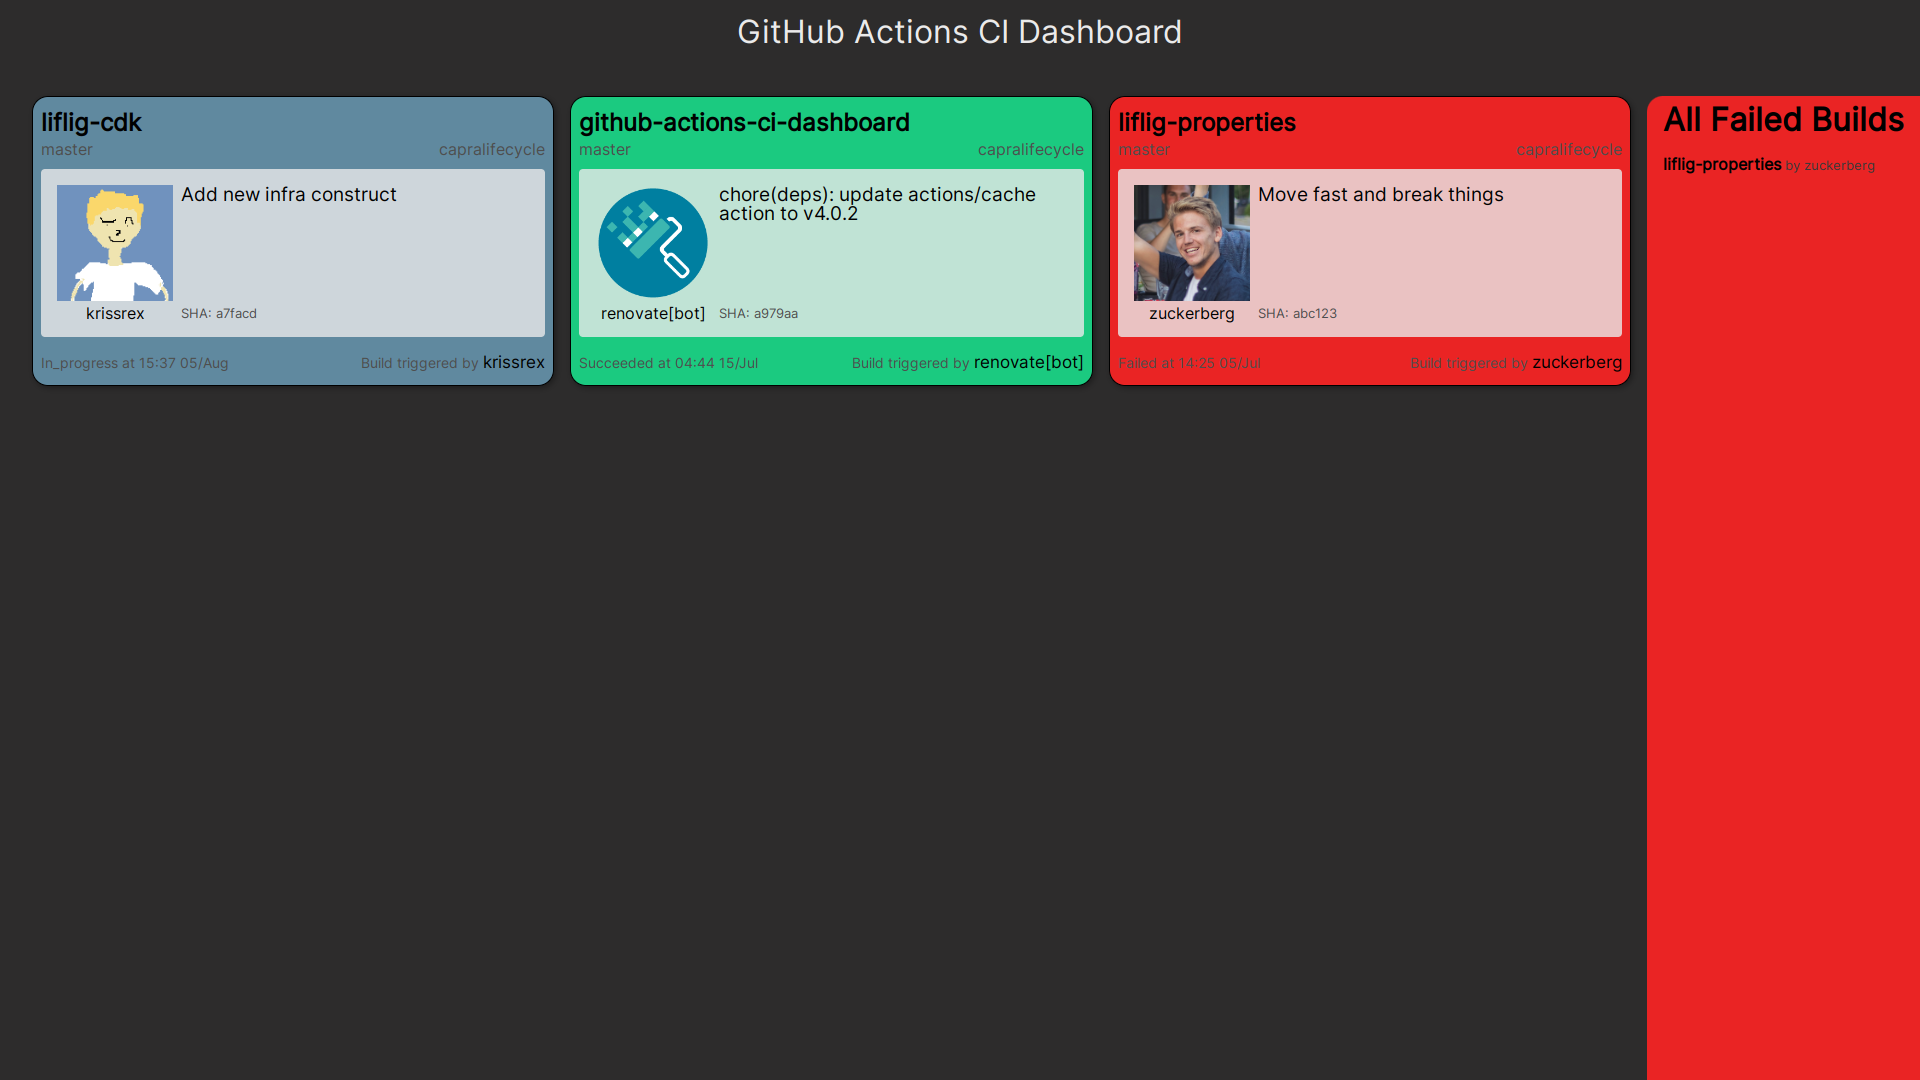
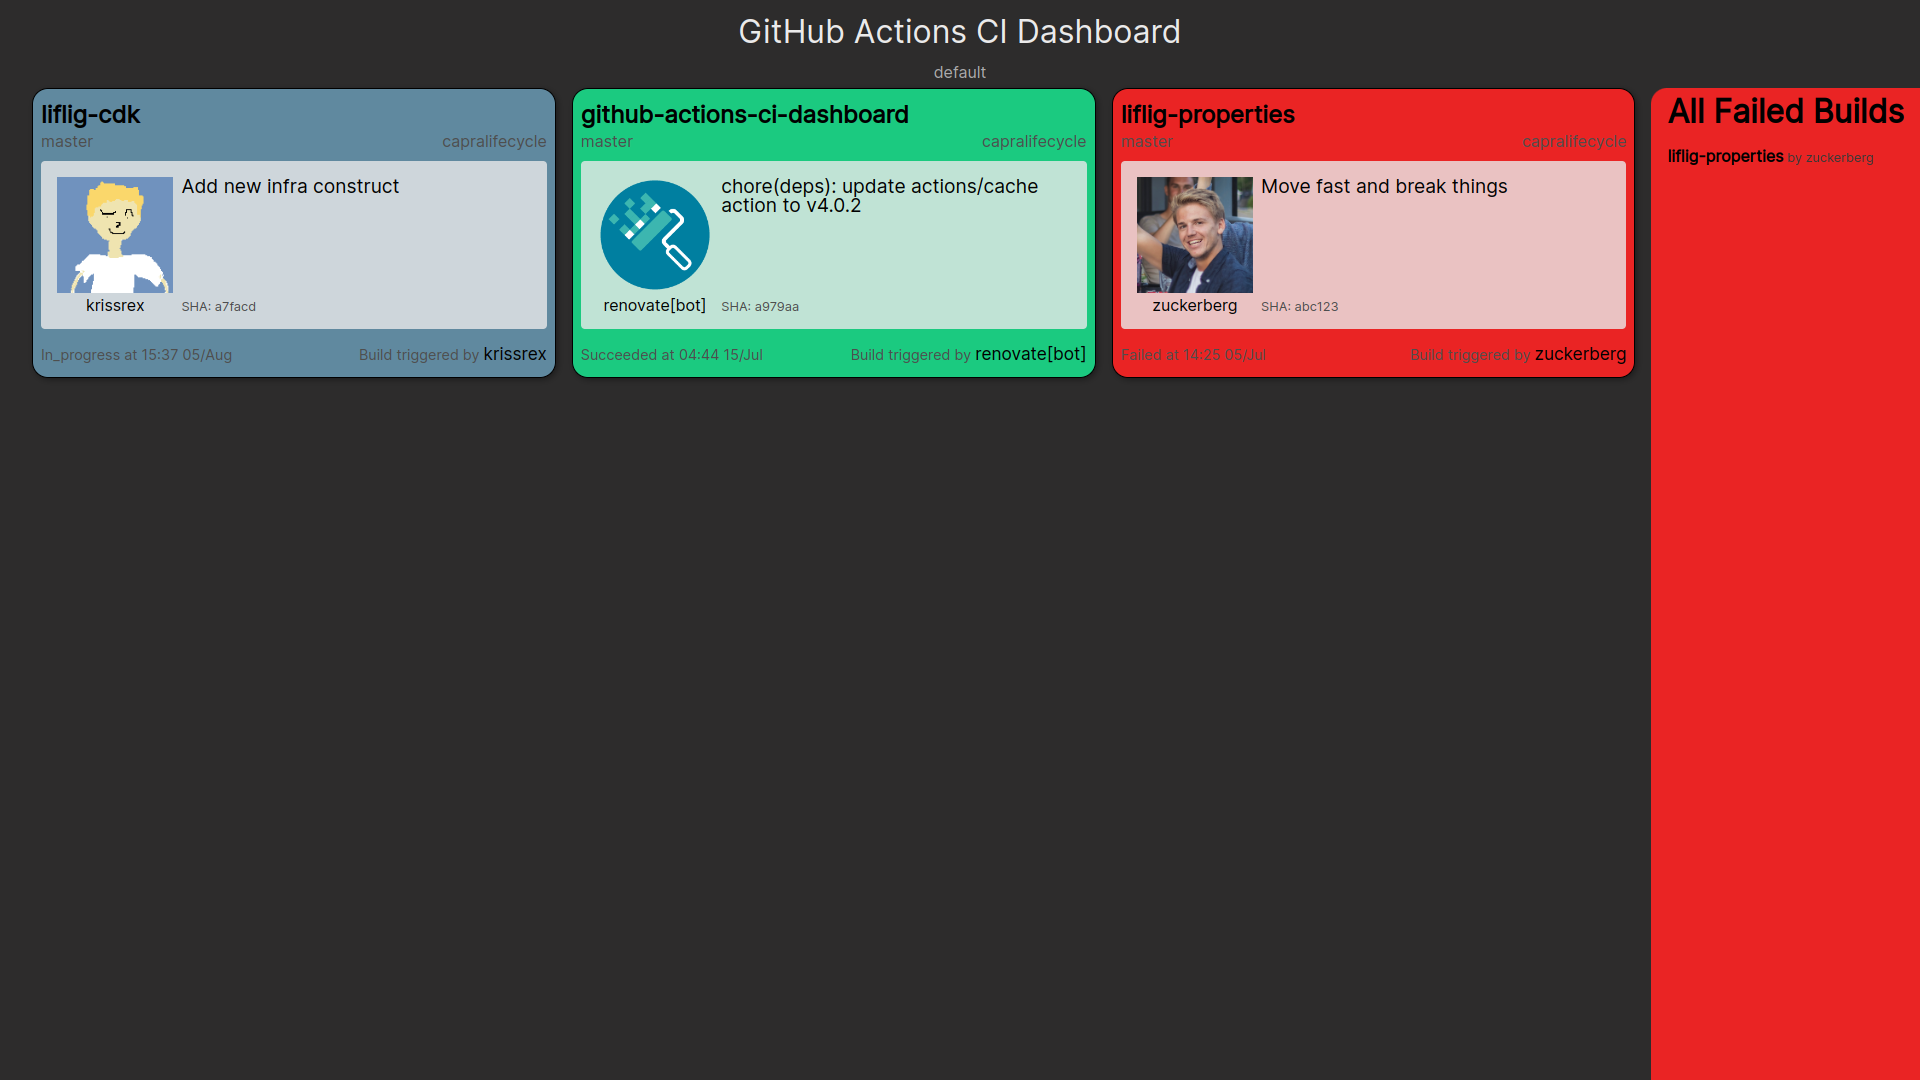
Render stuff correctly
CALS-825

Changed region(s): [[0.0, 0.0, 1.0, 0.3667]]

diff --git a/src/test/kotlin/no/liflig/cidashboard/dashboard/DashboardUpdatesEndpointTest.kt b/src/test/kotlin/no/liflig/cidashboard/dashboard/DashboardUpdatesEndpointTest.kt
@@ -20,9 +20,9 @@ class DashboardUpdatesEndpointTest {
   fun `should render empty list to say no builds`() {
     // Given
     val ciStatuses = DashboardData(emptyList(), emptyList())
-    val dashboardId = DashboardConfigId("1")
+    val dashboardId = "1"
     val updatesService: DashboardUpdatesService = mockk {
-      every { getUpdatedDashboardData(dashboardId) } returns ciStatuses
+      every { getUpdatedDashboardData(DashboardConfigId(dashboardId)) } returns ciStatuses
     }
 
     val secretToken = "my-secret-token"
@@ -32,7 +32,7 @@ class DashboardUpdatesEndpointTest {
 
     val request =
         Request(Method.GET, "")
-            .with(DashboardConfigId.queryLens of dashboardId)
+            .with(DashboardUpdatesEndpoint.dashboardConfigIdLens of dashboardId)
             .with(DashboardUpdatesEndpoint.tokenLens of secretToken)
 
     // When
@@ -65,9 +65,11 @@ class DashboardUpdatesEndpointTest {
                     createCiStatus(
                         id = "3", repoName = "repo-c", lastStatus = CiStatus.PipelineStatus.FAILED),
                 ))
-    val dashboardId = null
+    val dashboardId = ""
     val updatesService: DashboardUpdatesService =
-        mockk() { every { getUpdatedDashboardData(dashboardId) } returns ciStatuses }
+        mockk() {
+          every { getUpdatedDashboardData(DashboardConfigId(dashboardId)) } returns ciStatuses
+        }
 
     val secretToken = "my-secret-token"
     val endpoint =
@@ -76,7 +78,7 @@ class DashboardUpdatesEndpointTest {
 
     val request =
         Request(Method.GET, "")
-            .with(DashboardConfigId.queryLens of dashboardId)
+            .with(DashboardUpdatesEndpoint.dashboardConfigIdLens of dashboardId)
             .with(DashboardUpdatesEndpoint.tokenLens of secretToken)
 
     // When
@@ -95,7 +97,7 @@ class DashboardUpdatesEndpointTest {
   @Test
   fun `should render all ci statuses form service to html with config`() {
     // Given
-    val dashboardId = DashboardConfigId("custom-config")
+    val dashboardId = "custom-config"
     val ciStatuses =
         DashboardData(
             config = DashboardConfig(dashboardId),
@@ -119,7 +121,9 @@ class DashboardUpdatesEndpointTest {
                 ))
 
     val updatesService: DashboardUpdatesService =
-        mockk() { every { getUpdatedDashboardData(dashboardId) } returns ciStatuses }
+        mockk() {
+          every { getUpdatedDashboardData(DashboardConfigId(dashboardId)) } returns ciStatuses
+        }
 
     val secretToken = "my-secret-token"
     val endpoint =
@@ -128,7 +132,7 @@ class DashboardUpdatesEndpointTest {
 
     val request =
         Request(Method.GET, "")
-            .with(DashboardConfigId.queryLens of dashboardId)
+            .with(DashboardUpdatesEndpoint.dashboardConfigIdLens of dashboardId)
             .with(DashboardUpdatesEndpoint.tokenLens of secretToken)
 
     // When

diff --git a/src/main/kotlin/no/liflig/cidashboard/DashboardConfig.kt b/src/main/kotlin/no/liflig/cidashboard/DashboardConfig.kt
@@ -16,17 +16,20 @@ import no.liflig.cidashboard.persistence.Persisted
 import org.apache.commons.lang3.LocaleUtils
 import org.http4k.core.Body
 import org.http4k.format.KotlinxSerialization.auto
-import org.http4k.lens.Query
 
 @Serializable
 @Persisted
 data class DashboardConfig(
     val id: DashboardConfigId,
-    val orgMatchers: List<OrganizationMatcher> = allMatchers,
+    val orgMatchers: List<OrganizationMatcher> = allMatchers(),
     val locale: String = LocaleUtils.toLocale("en_US").toString(),
     val timezone: String = ZoneId.of("Europe/Oslo").id,
 ) {
   constructor(id: String) : this(DashboardConfigId(id))
+  constructor(
+      id: String,
+      orgMatchers: List<OrganizationMatcher>
+  ) : this(DashboardConfigId(id), orgMatchers)
 
   companion object {
 
@@ -35,12 +38,13 @@ data class DashboardConfig(
     private val json = Json {
       ignoreUnknownKeys = false
       encodeDefaults = true
+      isLenient = true
     }
 
     fun fromJson(jsonString: String): DashboardConfig =
         json.decodeFromString(serializer(), jsonString)
 
-    val allMatchers =
+    fun allMatchers() =
         listOf(
             OrganizationMatcher(
                 Regex(".*"),
@@ -50,16 +54,7 @@ data class DashboardConfig(
   fun toJson(): String = json.encodeToString(serializer(), this)
 }
 
-@Serializable
-@Persisted
-@JvmInline
-value class DashboardConfigId(val value: String) {
-  companion object {
-    val queryLens =
-        Query.auto<DashboardConfigId>()
-            .optional("dashboardConfigId", "Id to identify which config to use")
-  }
-}
+@Serializable @Persisted @JvmInline value class DashboardConfigId(val value: String) {}
 
 interface Matcher {
   val matcher: Regex

diff --git a/src/test/kotlin/test/util/AcceptanceTestExtension.kt b/src/test/kotlin/test/util/AcceptanceTestExtension.kt
@@ -2,6 +2,7 @@ package test.util
 
 import com.microsoft.playwright.Browser
 import com.microsoft.playwright.BrowserContext
+import com.microsoft.playwright.BrowserType
 import com.microsoft.playwright.Page
 import com.microsoft.playwright.Playwright
 import com.microsoft.playwright.assertions.LocatorAssertions
@@ -218,7 +219,7 @@ END${'$'}${'$'};""")
             .chromium()
             .launch(
                 // Uncomment for manual testing:
-                /*BrowserType.LaunchOptions().setHeadless(false).setSlowMo(1000.0)*/ )
+                BrowserType.LaunchOptions().setHeadless(false).setSlowMo(5000.0))
     private val context: BrowserContext =
         browser.newContext(
             Browser.NewContextOptions()

diff --git a/src/main/kotlin/no/liflig/cidashboard/dashboard/DashboardUpdatesEndpoint.kt b/src/main/kotlin/no/liflig/cidashboard/dashboard/DashboardUpdatesEndpoint.kt
@@ -55,6 +55,8 @@ class DashboardUpdatesEndpoint(
     val tokenLens =
         Query.required(
             "token", "Authorization so strangers don't see our repositories and thus customers.")
+
+    val dashboardConfigIdLens = Query.required("dashboardConfigId", "Id of dashboard config")
   }
 
   override fun invoke(request: Request): Response {
@@ -65,7 +67,7 @@ class DashboardUpdatesEndpoint(
 
     val shouldReload: Boolean = versionLens(request) != Index.LATEST_VERSION
 
-    val dashboardConfigId = DashboardConfigId.queryLens(request)
+    val dashboardConfigId = DashboardConfigId(dashboardConfigIdLens(request))
 
     val data = dashboardUpdatesService.getUpdatedDashboardData(dashboardConfigId)
 

diff --git a/src/main/kotlin/no/liflig/cidashboard/dashboard/DashboardUpdatesService.kt b/src/main/kotlin/no/liflig/cidashboard/dashboard/DashboardUpdatesService.kt
@@ -13,9 +13,9 @@ class DashboardUpdatesService(
     private val useDashboardConfigRepo: UseDashboardConfigRepo<DashboardConfig?>
 ) {
 
-  fun getUpdatedDashboardData(dashboardConfigId: DashboardConfigId?): DashboardData {
+  fun getUpdatedDashboardData(dashboardConfigId: DashboardConfigId): DashboardData {
 
-    val config = dashboardConfigId?.let { useDashboardConfigRepo { repo -> repo.getById(it) } }
+    val config = dashboardConfigId.let { useDashboardConfigRepo { repo -> repo.getById(it) } }
 
     return useCiStatusRepo { repo ->
       val all = repo.getAll()

diff --git a/src/test/kotlin/no/liflig/cidashboard/admin/config/DashboardConfigEndpointTest.kt b/src/test/kotlin/no/liflig/cidashboard/admin/config/DashboardConfigEndpointTest.kt
@@ -22,7 +22,7 @@ class DashboardConfigEndpointTest {
     val service = DashboardConfigService { callback -> callback(configRepo) }
     val endpoint = DashboardConfigEndpoint(service)
 
-    val dashboards = List(3) { index -> DashboardConfig("$index") }
+    val dashboards = List(3) { index -> DashboardConfig("$index", listOf()) }
 
     val request = Request(Method.POST, "").with(DashboardConfig.bodyLensOfList of dashboards)
 

diff --git a/src/test/kotlin/no/liflig/cidashboard/admin/config/DashboardConfigServiceTest.kt b/src/test/kotlin/no/liflig/cidashboard/admin/config/DashboardConfigServiceTest.kt
@@ -18,7 +18,7 @@ class DashboardConfigServiceTest {
     val configRepo = mockk<DashboardConfigRepo> { every { save(any()) } just Runs }
     val service = DashboardConfigService { callback -> callback(configRepo) }
 
-    val dashboards = List(3) { index -> DashboardConfig("$index") }
+    val dashboards = List(3) { index -> DashboardConfig("$index", listOf()) }
 
     service.handleListUpdate(dashboards)
 

diff --git a/src/test/resources/__snapshots__/dashboard-updates-endpoint/updates-with-config.html b/src/test/resources/__snapshots__/dashboard-updates-endpoint/updates-with-config.html
@@ -1,4 +1,4 @@
-<h3 class="title dashboardConfigId">custom-config</h3>
+<h3 class="dashboard-id">custom-config</h3>
 <div id="content">
 <div id="statuses" class="statuses">
     <div class="status status--SUCCEEDED" id="1"

diff --git a/src/test/resources/__snapshots__/dashboard-updates-endpoint/updates.html b/src/test/resources/__snapshots__/dashboard-updates-endpoint/updates.html
@@ -1,4 +1,4 @@
-<h3 class="title dashboardConfigId">default</h3>
+<h3 class="dashboard-id">default</h3>
 <div id="content">
 <div id="statuses" class="statuses">
     <div class="status status--SUCCEEDED" id="1"

diff --git a/src/test/resources/__snapshots__/dashboard-updates-endpoint/empty-list.html b/src/test/resources/__snapshots__/dashboard-updates-endpoint/empty-list.html
@@ -1,4 +1,4 @@
-<h3 class="title dashboardConfigId">default</h3>
+<h3 class="dashboard-id">default</h3>
 <div id="content">
 <div id="statuses" class="statuses">
     <span class="no-builds">No builds</span>
